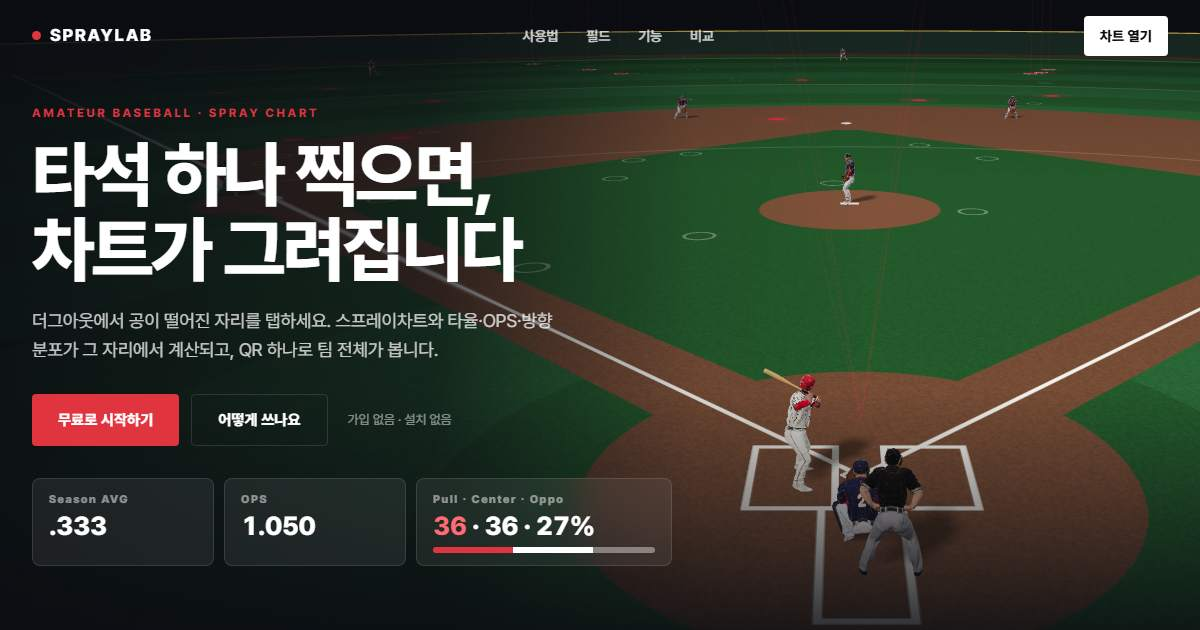
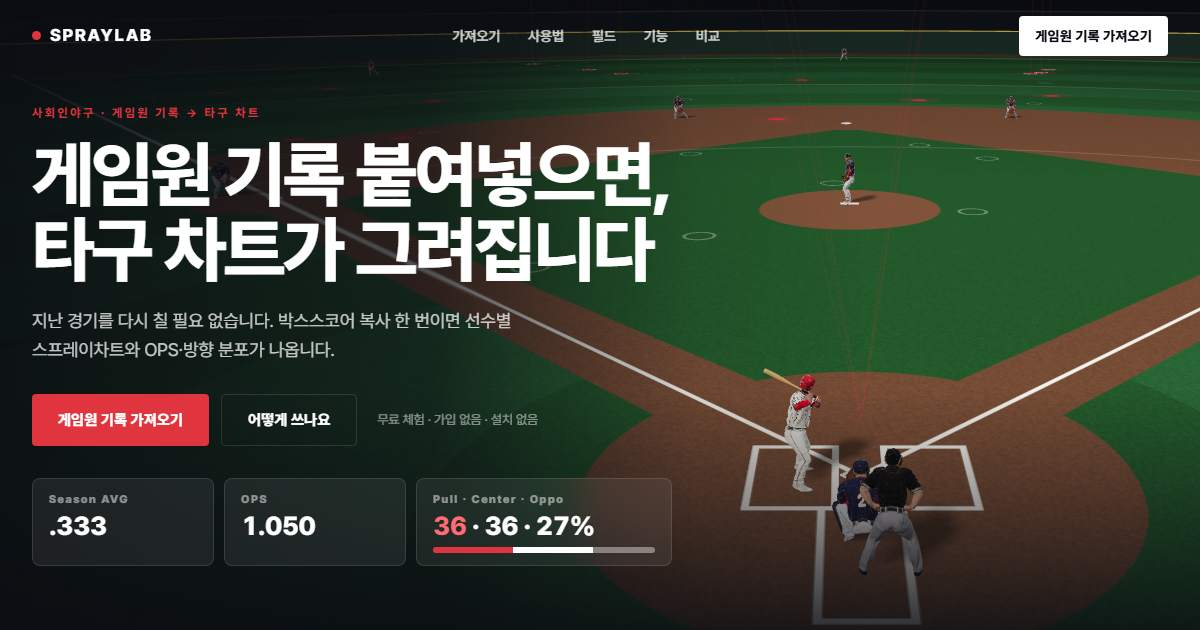
feat(landing): 공유 미리보기를 새 히어로로 — 탭 제목 · og/twitter 문구 · og.jpg
- <title> · og:title · twitter:title: 「게임원 기록 붙여넣으면 타구 차트가 그려진다」
- description · og:description · twitter:description: 게임원 붙여넣기 중심으로 (무료 체험 · 가입 없음 · 설치 없음 유지)
- og.jpg: tools/shoot_stills.py 의 og 설정(1200×630, 히어로 그대로)으로 #219 히어로를 다시 찍음. next/img 와 assets/landing/img 둘 다
- og:image · twitter:image 주소에 ?v=2 — 카톡 · 인스타가 예전 그림을 계속 보여주지 않게
- landing.html 과 landing.src.html 을 같이 고침 (scratch 빌드 = landing.html)

diff --git a/design/landing-3d/next/landing.src.html b/design/landing-3d/next/landing.src.html
@@ -3,8 +3,8 @@
 <head>
 <meta charset="utf-8">
 <meta name="viewport" content="width=device-width, initial-scale=1">
-<title>SprayLab — 타석 하나 찍으면 차트가 그려진다</title>
-<meta name="description" content="사회인야구 타석을 기록하면 스프레이차트가 그려집니다. 무료 체험 · 가입 없음 · 설치 없음.">
+<title>SprayLab — 게임원 기록 붙여넣으면 타구 차트가 그려진다</title>
+<meta name="description" content="사회인야구 게임원 기록을 붙여넣으면 선수별 스프레이차트와 OPS·방향 분포가 나옵니다. 무료 체험 · 가입 없음 · 설치 없음.">
 <meta name="theme-color" content="#0B0D12">
 <link rel="icon" type="image/png" sizes="32x32" href="assets/landing/img/icon-32.png">
 <link rel="icon" type="image/png" sizes="192x192" href="assets/landing/img/icon-192.png">
@@ -12,16 +12,16 @@
 <link rel="canonical" href="https://kimjeongcheol13.github.io/baseball-spray-chart/landing.html">
 <meta property="og:type" content="website">
 <meta property="og:site_name" content="SprayLab">
-<meta property="og:title" content="SprayLab — 타석 하나 찍으면 차트가 그려진다">
-<meta property="og:description" content="사회인야구 타석을 기록하면 스프레이차트가 그려집니다. 무료 체험 · 가입 없음 · 설치 없음.">
+<meta property="og:title" content="SprayLab — 게임원 기록 붙여넣으면 타구 차트가 그려진다">
+<meta property="og:description" content="사회인야구 게임원 기록을 붙여넣으면 선수별 스프레이차트와 OPS·방향 분포가 나옵니다. 무료 체험 · 가입 없음 · 설치 없음.">
 <meta property="og:url" content="https://kimjeongcheol13.github.io/baseball-spray-chart/landing.html">
-<meta property="og:image" content="https://kimjeongcheol13.github.io/baseball-spray-chart/assets/landing/img/og.jpg">
+<meta property="og:image" content="https://kimjeongcheol13.github.io/baseball-spray-chart/assets/landing/img/og.jpg?v=2">
 <meta property="og:image:width" content="1200">
 <meta property="og:image:height" content="630">
 <meta name="twitter:card" content="summary_large_image">
-<meta name="twitter:title" content="SprayLab — 타석 하나 찍으면 차트가 그려진다">
-<meta name="twitter:description" content="사회인야구 타석을 기록하면 스프레이차트가 그려집니다. 무료 체험 · 가입 없음 · 설치 없음.">
-<meta name="twitter:image" content="https://kimjeongcheol13.github.io/baseball-spray-chart/assets/landing/img/og.jpg">
+<meta name="twitter:title" content="SprayLab — 게임원 기록 붙여넣으면 타구 차트가 그려진다">
+<meta name="twitter:description" content="사회인야구 게임원 기록을 붙여넣으면 선수별 스프레이차트와 OPS·방향 분포가 나옵니다. 무료 체험 · 가입 없음 · 설치 없음.">
+<meta name="twitter:image" content="https://kimjeongcheol13.github.io/baseball-spray-chart/assets/landing/img/og.jpg?v=2">
 <link rel="preload" as="image" href="assets/landing/img/hero_close.jpg" media="(min-width: 1024px)" fetchpriority="high">
 <link rel="preload" as="image" href="assets/landing/img/hero_close_m.jpg" media="(max-width: 1023px)" fetchpriority="high">
 <link rel="stylesheet" href="https://cdn.jsdelivr.net/gh/orioncactus/pretendard@1.3.9/dist/web/variable/pretendardvariable-dynamic-subset.min.css">

diff --git a/landing.html b/landing.html
@@ -3,8 +3,8 @@
 <head>
 <meta charset="utf-8">
 <meta name="viewport" content="width=device-width, initial-scale=1">
-<title>SprayLab — 타석 하나 찍으면 차트가 그려진다</title>
-<meta name="description" content="사회인야구 타석을 기록하면 스프레이차트가 그려집니다. 무료 체험 · 가입 없음 · 설치 없음.">
+<title>SprayLab — 게임원 기록 붙여넣으면 타구 차트가 그려진다</title>
+<meta name="description" content="사회인야구 게임원 기록을 붙여넣으면 선수별 스프레이차트와 OPS·방향 분포가 나옵니다. 무료 체험 · 가입 없음 · 설치 없음.">
 <meta name="theme-color" content="#0B0D12">
 <link rel="icon" type="image/png" sizes="32x32" href="assets/landing/img/icon-32.png">
 <link rel="icon" type="image/png" sizes="192x192" href="assets/landing/img/icon-192.png">
@@ -12,16 +12,16 @@
 <link rel="canonical" href="https://kimjeongcheol13.github.io/baseball-spray-chart/landing.html">
 <meta property="og:type" content="website">
 <meta property="og:site_name" content="SprayLab">
-<meta property="og:title" content="SprayLab — 타석 하나 찍으면 차트가 그려진다">
-<meta property="og:description" content="사회인야구 타석을 기록하면 스프레이차트가 그려집니다. 무료 체험 · 가입 없음 · 설치 없음.">
+<meta property="og:title" content="SprayLab — 게임원 기록 붙여넣으면 타구 차트가 그려진다">
+<meta property="og:description" content="사회인야구 게임원 기록을 붙여넣으면 선수별 스프레이차트와 OPS·방향 분포가 나옵니다. 무료 체험 · 가입 없음 · 설치 없음.">
 <meta property="og:url" content="https://kimjeongcheol13.github.io/baseball-spray-chart/landing.html">
-<meta property="og:image" content="https://kimjeongcheol13.github.io/baseball-spray-chart/assets/landing/img/og.jpg">
+<meta property="og:image" content="https://kimjeongcheol13.github.io/baseball-spray-chart/assets/landing/img/og.jpg?v=2">
 <meta property="og:image:width" content="1200">
 <meta property="og:image:height" content="630">
 <meta name="twitter:card" content="summary_large_image">
-<meta name="twitter:title" content="SprayLab — 타석 하나 찍으면 차트가 그려진다">
-<meta name="twitter:description" content="사회인야구 타석을 기록하면 스프레이차트가 그려집니다. 무료 체험 · 가입 없음 · 설치 없음.">
-<meta name="twitter:image" content="https://kimjeongcheol13.github.io/baseball-spray-chart/assets/landing/img/og.jpg">
+<meta name="twitter:title" content="SprayLab — 게임원 기록 붙여넣으면 타구 차트가 그려진다">
+<meta name="twitter:description" content="사회인야구 게임원 기록을 붙여넣으면 선수별 스프레이차트와 OPS·방향 분포가 나옵니다. 무료 체험 · 가입 없음 · 설치 없음.">
+<meta name="twitter:image" content="https://kimjeongcheol13.github.io/baseball-spray-chart/assets/landing/img/og.jpg?v=2">
 <link rel="preload" as="image" href="assets/landing/img/hero_close.jpg" media="(min-width: 1024px)" fetchpriority="high">
 <link rel="preload" as="image" href="assets/landing/img/hero_close_m.jpg" media="(max-width: 1023px)" fetchpriority="high">
 <link rel="stylesheet" href="https://cdn.jsdelivr.net/gh/orioncactus/pretendard@1.3.9/dist/web/variable/pretendardvariable-dynamic-subset.min.css">
